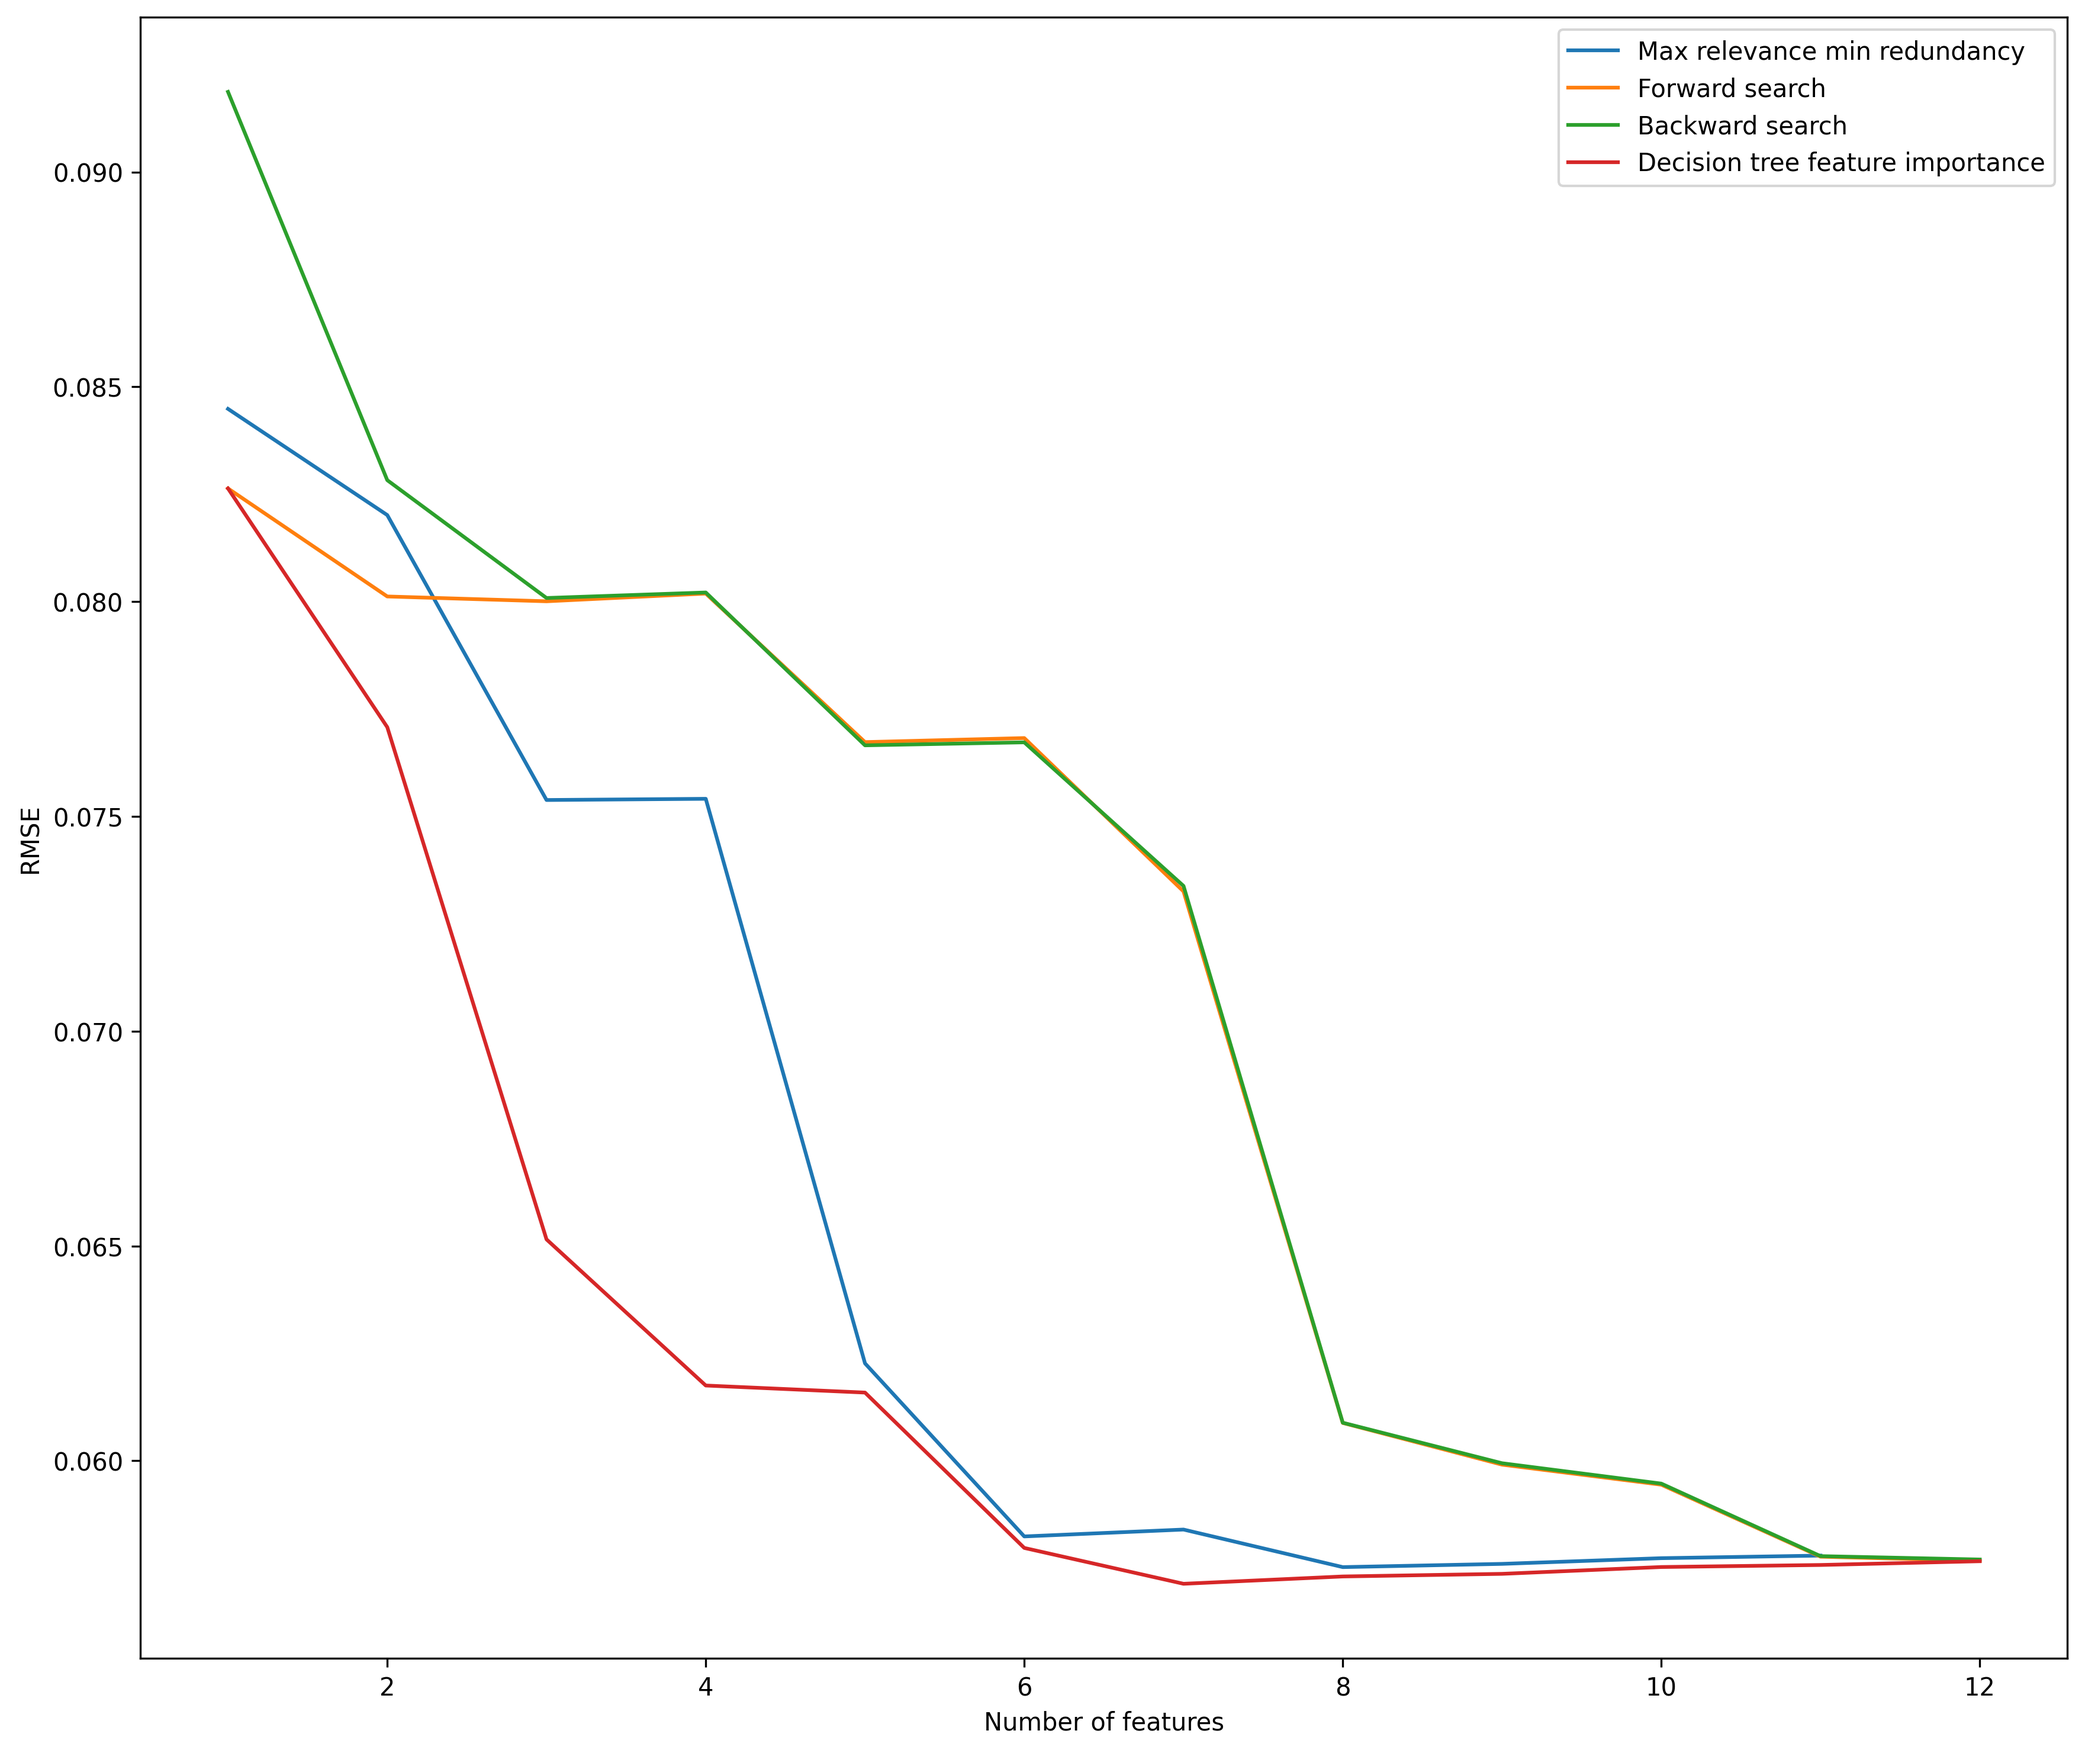
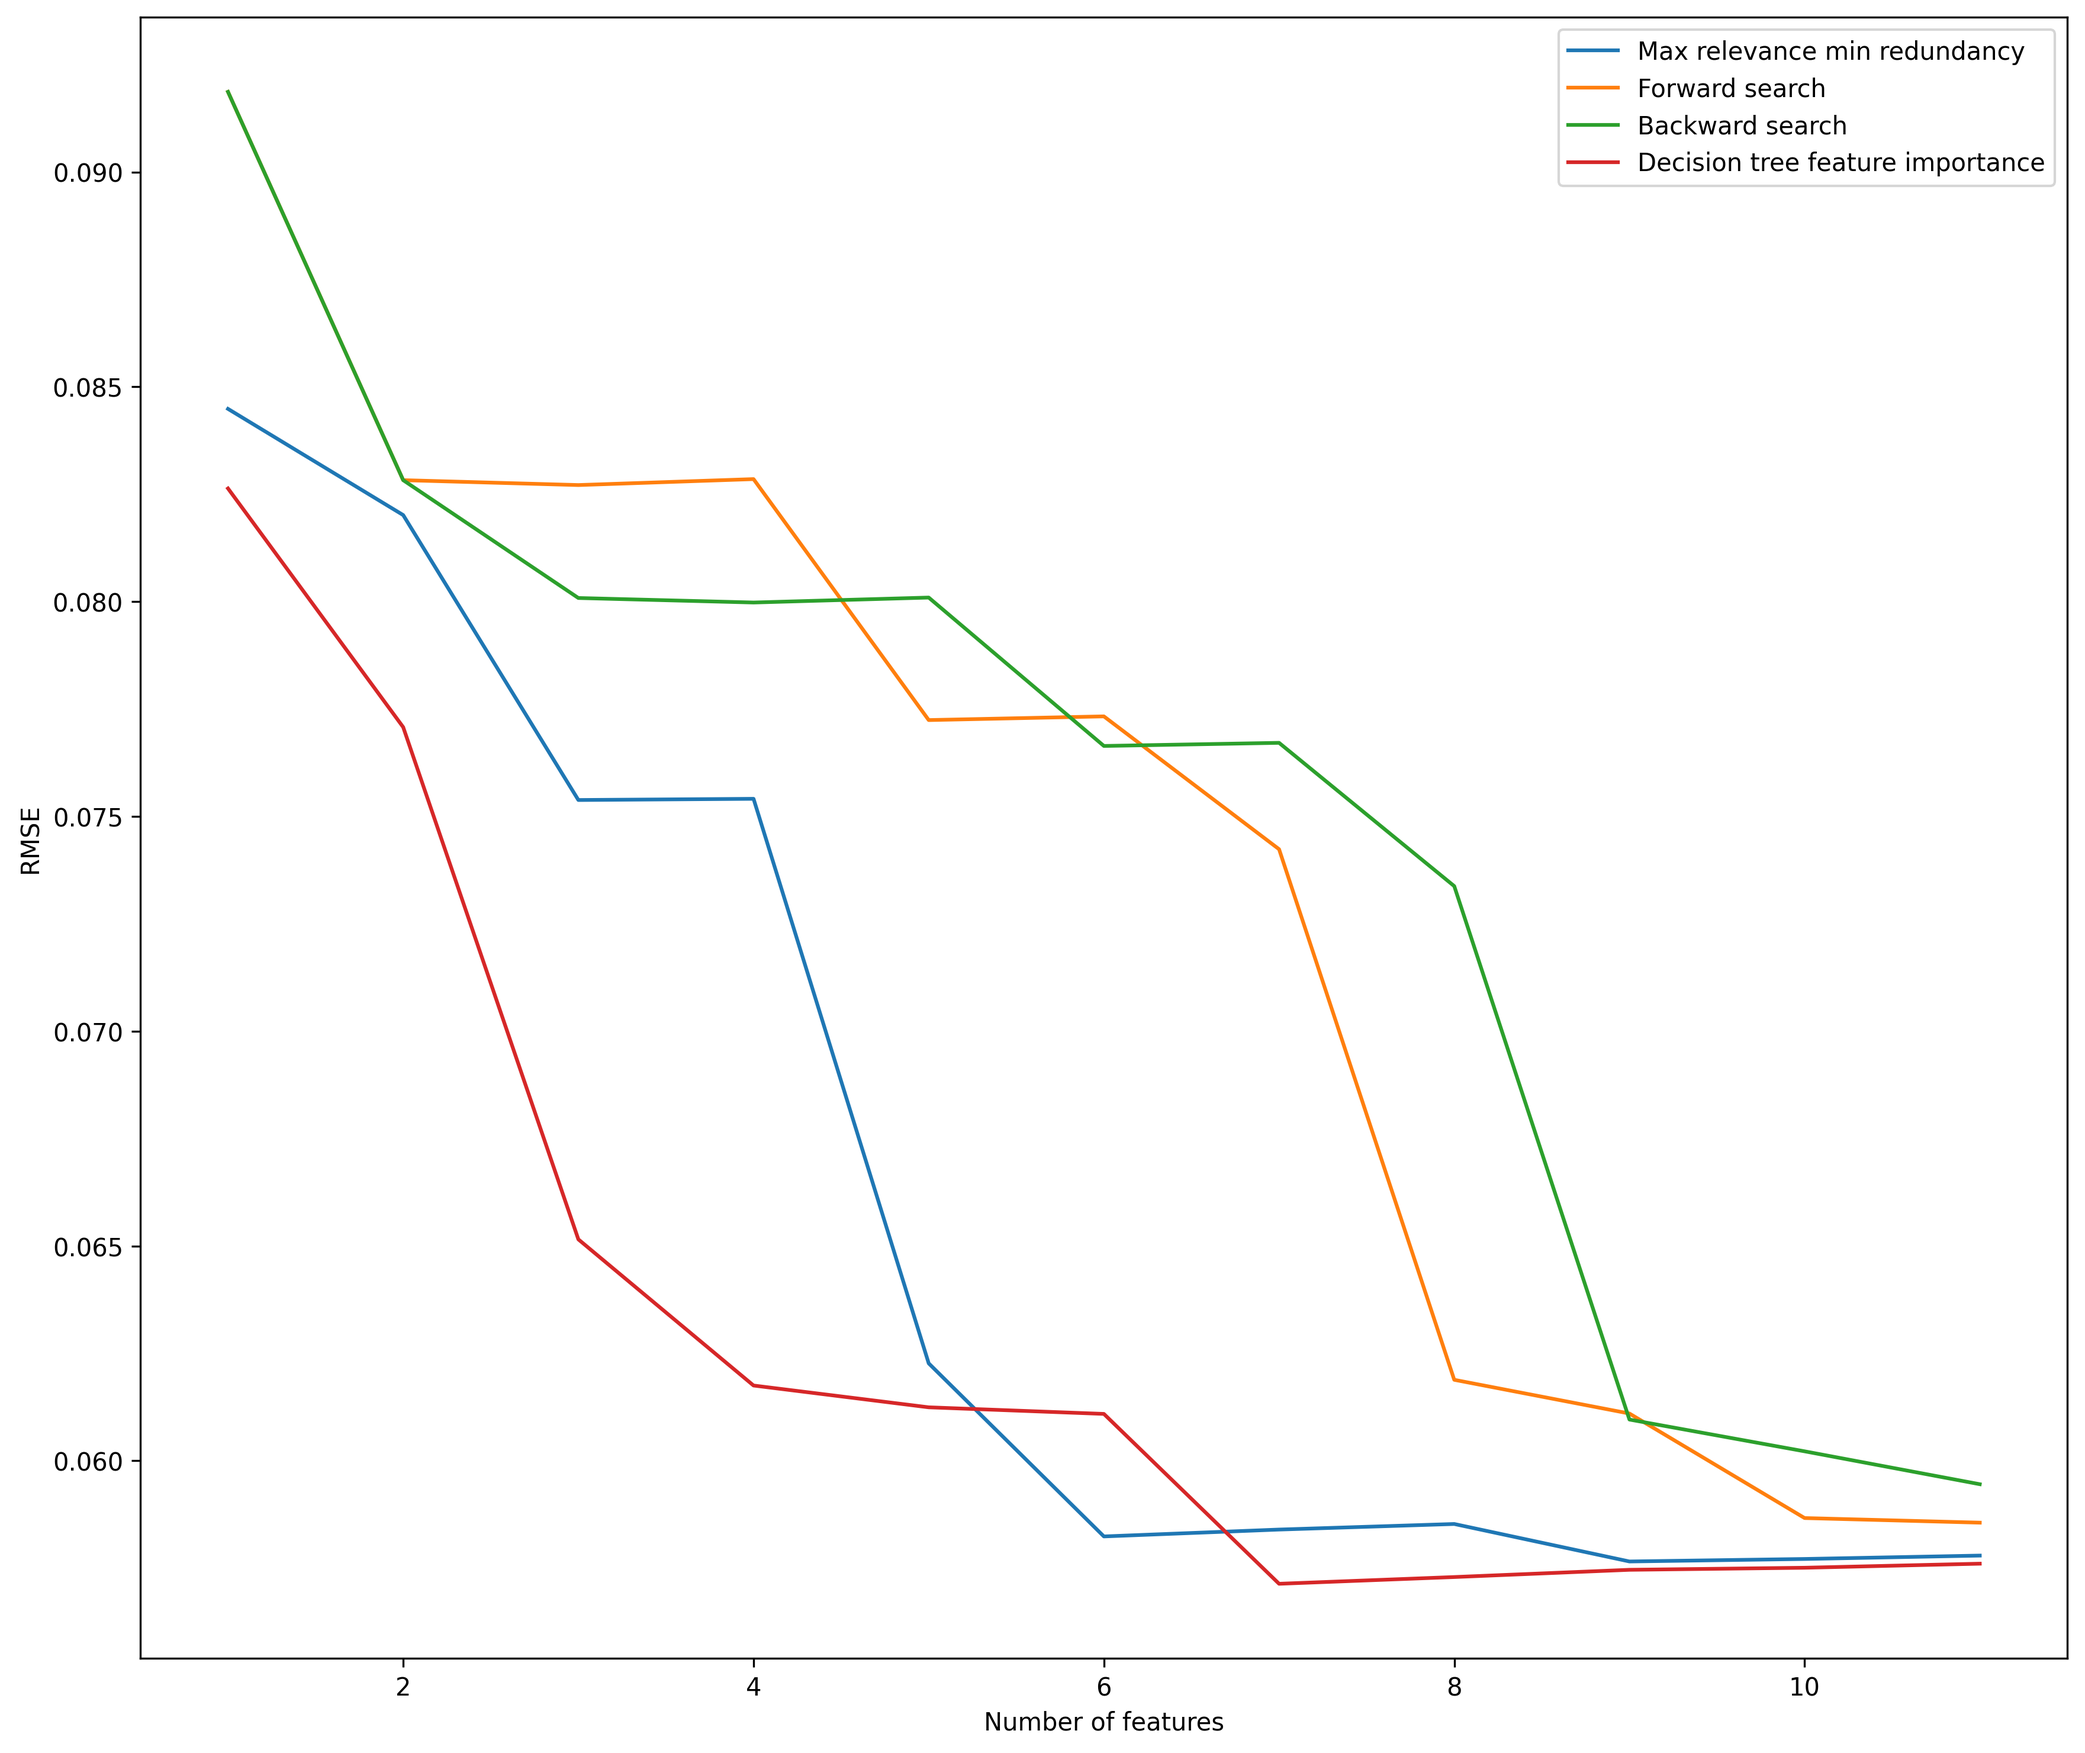
improving sonsitency of our models

diff --git a/code/main_k_nearest.py b/code/main_k_nearest.py
@@ -1,3 +1,5 @@
+import random
+
 import pandas as pd
 import numpy as np
 from sklearn.model_selection import KFold
@@ -16,6 +18,7 @@ if __name__ == '__main__':
 
     # load data and set seed in order to have reproducible results
     np.random.seed(1234)
+    random.seed(1234)
     staging_path = "../data/staging/"
     data_file = "Xtab1_Y1_cleaned.csv"
     image_file = "MyXimg1.csv"
@@ -28,24 +31,24 @@ if __name__ == '__main__':
      test_target) = utils.split_train_validation_test(cleaned_set, TEST_RATIO, image_path=staging_path + image_file)
 
     selected_features = utils.return_best_features(training_set, training_target, test_set, test_target, model=LinearRegression())
-    # model = KNeighborsRegressor()
-    # k_fold = KFold(n_splits=8)
-    # param_grid = {
-    #     "n_neighbors": [3, 5, 7, 9, 11, 13, 15, 17, 19],
-    #     "weights": ["uniform", "distance"],
-    #     "algorithm": ["auto"],
-    #     "leaf_size": [10, 20, 30, 40, 50, 60, 70, 80, 90, 100],
-    #     "p": [1, 2],
-    #     "metric": ["minkowski", "euclidean", "manhattan"]
-    # }
-    # grid = m_select.perform_grid_search(
-    #     model, param_grid, scoring.rmse, k_fold, training_set[selected_features], training_target, n_jobs=-1
-    # )
-    # print(grid.best_params_)
-    # model = KNeighborsRegressor(**grid.best_params_)
-    model = KNeighborsRegressor(**{
-        'algorithm': 'auto', 'leaf_size': 10, 'metric': 'minkowski', 'n_neighbors': 11, 'p': 1, 'weights': 'distance'
-    })
+    model = KNeighborsRegressor()
+    k_fold = KFold(n_splits=8)
+    param_grid = {
+        "n_neighbors": [3, 5, 7, 9, 11, 13, 15, 17, 19],
+        "weights": ["uniform", "distance"],
+        "algorithm": ["auto"],
+        "leaf_size": [10, 20, 30, 40, 50, 60, 70, 80, 90, 100],
+        "p": [1, 2],
+        "metric": ["minkowski", "euclidean", "manhattan"]
+    }
+    grid = m_select.perform_grid_search(
+        model, param_grid, scoring.rmse, k_fold, training_set[selected_features], training_target, n_jobs=-1
+    )
+    print(grid.best_params_)
+    model = KNeighborsRegressor(**grid.best_params_)
+    # model = KNeighborsRegressor(**{
+    #     'algorithm': 'auto', 'leaf_size': 10, 'metric': 'minkowski', 'n_neighbors': 11, 'p': 1, 'weights': 'distance'
+    # })
     # selected_features = utils.return_best_features(training_set, training_target, test_set, test_target, model)
 
     scoring.evaluate_feature_selection(training_set, test_set, training_target, test_target, model, selected_features)

diff --git a/code/main_mlp.py b/code/main_mlp.py
@@ -1,6 +1,8 @@
 from sklearn.model_selection import KFold
 from sklearn.neural_network import MLPRegressor
 import pandas as pd
+import numpy as np
+import random
 
 import code.utils.utils as utils
 import scoring.scoring as scoring
@@ -12,7 +14,8 @@ if __name__ == '__main__':
     TEST_RATIO = 0.1
 
     # load data and set seed in order to have reproducible results
-    # np.random.seed(123)
+    np.random.seed(1234)
+    random.seed(1234)
     staging_path = "../data/staging/"
     data_file = "Xtab1_Y1_cleaned.csv"
     image_file = "MyXimg1.csv"
@@ -24,18 +27,19 @@ if __name__ == '__main__':
      training_target,
      test_target) = utils.split_train_validation_test(cleaned_set, TEST_RATIO, image_path=staging_path + image_file)
 
-    # selected_features = utils.return_best_features(training_set, training_target, test_set, test_target)
-    model = MLPRegressor()
+    selected_features = utils.return_best_features(training_set, training_target, test_set, test_target)
+    model = MLPRegressor(random_state=1234)
     k_fold = KFold(n_splits=8)
     param_grid = {
-        "hidden_layer_sizes": [(128, 256, 128), (256, 512, 256), (32, 64, 128, 64, 32), (16, 32, 64, 128, 64, 32, 16)],
+        "hidden_layer_sizes": [(4, 4), (8, 8), (4, 8, 4), (16, 16), (8, 16, 8), (8, 8, 8), (16, 16, 16), (4, 4, 4)],
         "learning_rate": ["invscaling", "adaptive"],
-        "learning_rate_init": [0.01, 0.014, 0.012],
-        "max_iter": [128, 256, 512]
+        "solver": ["lbfgs", "sgd", "adam"],
+        "learning_rate_init": [0.01, 0.014, 0.012, 0.008],
+        "max_iter": [256, 512, 750, 1024]
     }
-    grid = m_select.perform_grid_search(model, param_grid, scoring.rmse, k_fold, training_set, training_target, n_jobs=-1)
+    grid = m_select.perform_grid_search(model, param_grid, scoring.rmse, k_fold, training_set[selected_features], training_target, n_jobs=-1)
     print(grid.best_params_)
-    model = MLPRegressor(**grid.best_params_)
-    selected_features = utils.return_best_features(training_set, training_target, test_set, test_target, model)
+    model = MLPRegressor(**grid.best_params_, random_state=1234)
+    # model = MLPRegressor(**{'hidden_layer_sizes': (4, 8, 4), 'learning_rate': 'invscaling', 'learning_rate_init': 0.01, 'max_iter': 256, 'solver': 'lbfgs'}, random_state=1234)
 
     scoring.evaluate_feature_selection(training_set, test_set, training_target, test_target, model, selected_features)

diff --git a/code/main_graphs.py b/code/main_graphs.py
@@ -36,7 +36,7 @@ if __name__ == '__main__':
      test_target) = utils.split_train_validation_test(cleaned_set, TEST_RATIO, image_path=staging_path + image_file)
 
     # print correlation with target
-    print(training_set.corrwith(training_target))
+    # print(training_set.corrwith(training_target))
 
     train_corr = training_set.corr()
     # position the heatmp in the center of the graph
@@ -46,14 +46,12 @@ if __name__ == '__main__':
     figure.savefig("../graphs/heatmap.png", bbox_inches='tight', dpi=300)
 
     # selected_features = utils.return_best_features(training_set, training_target, test_set, test_target)
-    mi = pd.Series(mutual_info(training_set.values, training_target.values.ravel()), index=training_set.columns)
-    print(mi)
 
     n_features = training_set.shape[1] - 1
     # n_features = 10
 
     # 2.2 Set Features
-    model = MLPRegressor(hidden_layer_sizes=(100, 100, 100), max_iter=256)
+    model = MLPRegressor(hidden_layer_sizes=(8, 16, 8), max_iter=256)
     # model = linear_model.LinearRegression()
     features = [
         max_relevance_min_redundancy_filter(training_set.copy(), training_target.copy(), n_features),
@@ -81,12 +79,13 @@ if __name__ == '__main__':
     # 3.2.2 Test Features of best set
     selected_features = []
     # transform above code into loop
+    # model = MLPRegressor(hidden_layer_sizes=(8, 16, 8), max_iter=256)
     model = linear_model.LinearRegression()
     for feature_set in features:
-        selected_features.append([(cross_val_score(linear_model.LinearRegression(), training_set[feature_set].copy(), training_target.copy(), cv=8, scoring=scoring.rmse_score).mean(), len(feature_set))])
+        selected_features.append([(cross_val_score(model, training_set[feature_set].copy(), training_target.copy(), cv=8, scoring=scoring.rmse_score).mean(), len(feature_set))])
         for i in range(1, len(feature_set)):
             selected_features[-1].append((
-                cross_val_score(linear_model.LinearRegression(), training_set[feature_set[0:-i]].copy(), training_target.copy(), cv=8, scoring=scoring.rmse_score).mean(),
+                cross_val_score(model, training_set[feature_set[0:-i]].copy(), training_target.copy(), cv=8, scoring=scoring.rmse_score).mean(),
                 len(feature_set) - i
              ))
 

diff --git a/code/main_ridge.py b/code/main_ridge.py
@@ -4,12 +4,15 @@ Created on Thu Dec 14 10:19:48 2023
 
 @author: skida
 """
+import random
+
 from sklearn.kernel_ridge import KernelRidge
 from sklearn.model_selection import KFold
 
 import utils.utils as utils
 import scoring.scoring as scoring
 import pandas as pd
+import numpy as np
 import model_selection.model_selection as m_select
 
 
@@ -18,7 +21,8 @@ if __name__ == '__main__':
     TEST_RATIO = 0.1
 
     # load data and set seed in order to have reproducible results
-    # np.random.seed(123)
+    np.random.seed(1234)
+    random.seed(1234)
     staging_path = "../data/staging/"
     data_file = "Xtab1_Y1_cleaned.csv"
     image_file = "MyXimg1.csv"
@@ -30,6 +34,7 @@ if __name__ == '__main__':
      training_target,
      test_target) = utils.split_train_validation_test(cleaned_set, TEST_RATIO, image_path=staging_path + image_file)
 
+    selected_features = utils.return_best_features(training_set, training_target, test_set, test_target)
     model = KernelRidge()
     k_fold = KFold(n_splits=8)
     param_grid = {
@@ -39,9 +44,9 @@ if __name__ == '__main__':
         "degree": [2, 3, 4, 5],
         "coef0": [10, 20, 50, 100, 150, 200, 250]
     }
-    grid = m_select.perform_grid_search(model, param_grid, scoring.rmse, k_fold, training_set, training_target, n_jobs=-1)
+    grid = m_select.perform_grid_search(model, param_grid, scoring.rmse, k_fold, training_set[selected_features], training_target, n_jobs=-1)
     print(grid.best_params_)
     model = KernelRidge(**grid.best_params_)
-    selected_features = utils.return_best_features(training_set, training_target, test_set, test_target, model)
+    # model = KernelRidge(**{'alpha': 20, 'coef0': 100, 'degree': 4, 'gamma': 0.001, 'kernel': 'poly'})
 
     scoring.evaluate_feature_selection(training_set, test_set, training_target, test_target, model, selected_features)

diff --git a/code/utils/utils.py b/code/utils/utils.py
@@ -74,8 +74,8 @@ def remove_unused_fields(data):
     :return: cleaned data
     """
     field_to_keep = [
-        'Age_Std', 'BloodPr_Std', 'Cholesterol_Std', 'Hemoglobin_Std', 'Temperature_Std', 'Testosterone_Std',
-        'Weight_Std', 'smurfberryLiquor_num', 'physicalActivity_num', 'h1', 'h2', 'h3', 'h4', 'h5', 'h7', 'h8'
+        'Age_Std', 'BloodPr_Std', 'Cholesterol_Std', 'Temperature_Std', 'Testosterone_Std', 'Weight_Std',
+        'smurfberryLiquor_num', 'physicalActivity_num', 'h1_std', 'h3_std', 'h4_std', 'h7_std'
     ]
 
     return data[field_to_keep].copy()
@@ -112,9 +112,9 @@ def return_best_features(training_set, training_target, test_set, test_target, m
     if model is None:
         model = MLPRegressor(hidden_layer_sizes=(100, 100, 100), max_iter=256)
     features = [
-        max_relevance_min_redundancy_filter(training_set, training_target, 10),
-        forward_search(training_set, training_target, 10, model=model),
-        backward_search(training_set, training_target, 10, model=model),
+        # max_relevance_min_redundancy_filter(training_set, training_target, 10),
+        # forward_search(training_set, training_target, 10, model=model),
+        # backward_search(training_set, training_target, 10, model=model),
         decision_tree_feature_importance(
             training_set, training_target, test_set, test_target, 10, decision_tree_depth=20
         )
